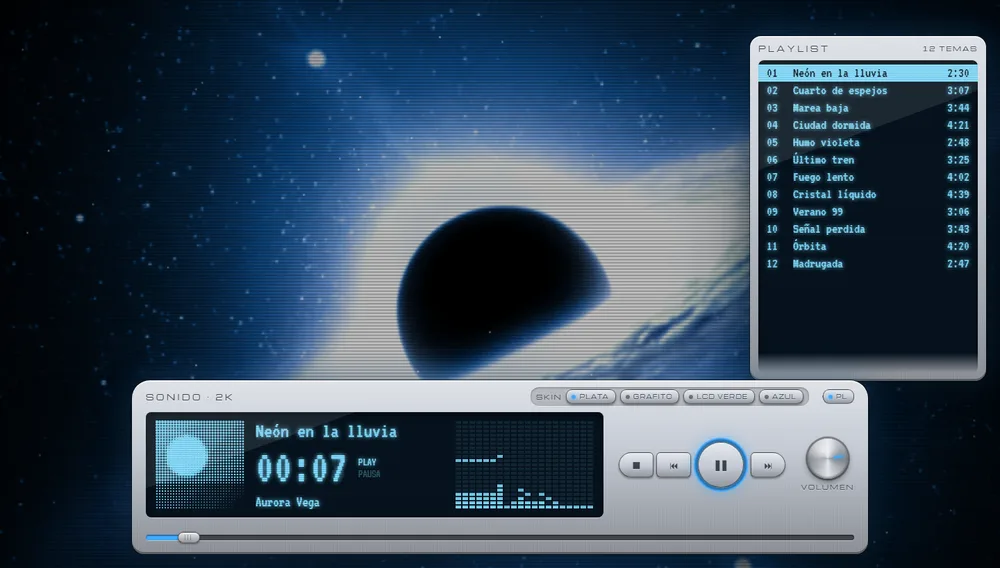
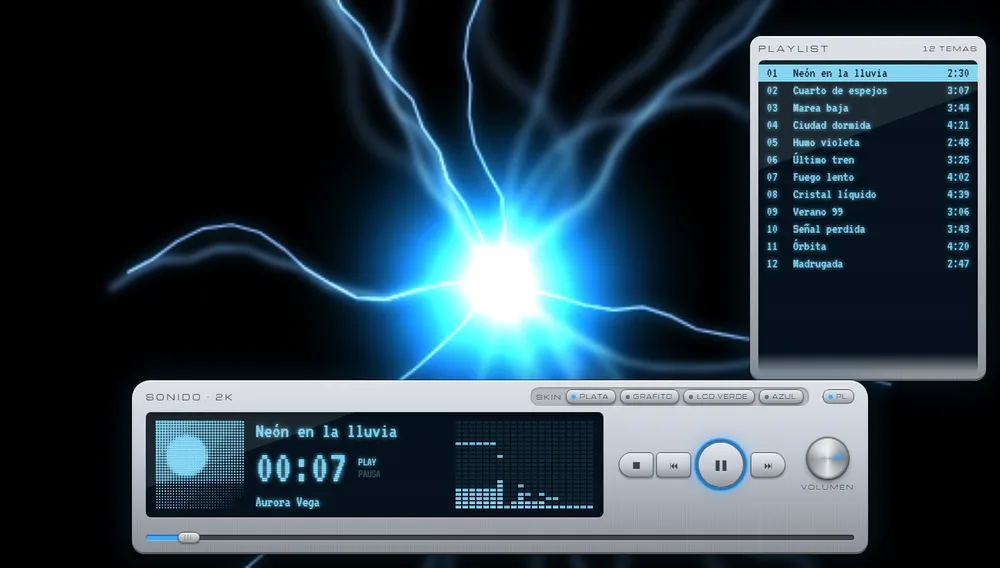
2000s: visualizaciones en vivo estilo Windows Media Player (bateria, rayos, onda) en lugar del agujero negro

diff --git a/web/visu2000.js b/web/visu2000.js
@@ -1,0 +1,85 @@
+// Visualización estilo reproductores de los 2000 (Windows Media Player / Winamp): fondo de la plantilla 2000s y opción
+// "Visualización 2000" de las plantillas propias. Todo se dibuja en vivo con la música a baja resolución y se estira
+// (se ve suave y brillante, como entonces). La "retroalimentación" (cada cuadro redibuja el anterior un poco más grande,
+// girado y desvanecido) es lo que hace los túneles y las estelas. Rota entre 3 modos: al cambiar de tema y cada 40 s.
+// crearVisu2000(canvas) → { dibujar(t, espectro, onda, bajo, medio, agudo, tono), siguiente() }
+"use strict";
+function crearVisu2000(canvas) {
+  const W = 480, H = 270, CX = W / 2, CY = H / 2;
+  canvas.width = W; canvas.height = H;
+  const g = canvas.getContext("2d"), copia = document.createElement("canvas"); copia.width = W; copia.height = H;
+  const c2 = copia.getContext("2d");
+  g.fillStyle = "#000"; g.fillRect(0, 0, W, H);
+  const MODOS = ["bateria", "rayos", "alquimia"];
+  let modo = 0, desde = 0, prom = 0, golpe = 0, giro = 0;
+
+  // redibuja el cuadro anterior transformado: zoom > 1 = túnel hacia afuera; filtro = humo / cambio de color
+  function eco(zoom, rot, alfa, filtro) {
+    c2.clearRect(0, 0, W, H); c2.drawImage(canvas, 0, 0);
+    g.fillStyle = "#000"; g.fillRect(0, 0, W, H);
+    g.save(); g.filter = filtro || "none"; g.globalAlpha = alfa;
+    g.translate(CX, CY); g.rotate(rot); g.scale(zoom, zoom); g.drawImage(copia, -CX, -CY);
+    g.restore(); g.filter = "none"; g.globalAlpha = 1;
+  }
+  const col = (h, l, a) => `hsla(${h},100%,${l}%,${a})`;
+  const banda = (d, i, n) => { const a = Math.floor(2 * Math.pow(90, i / n)), b = Math.max(a + 1, Math.floor(2 * Math.pow(90, (i + 1) / n))); let s = 0; for (let k = a; k < b; k++) s += d[k] || 0; return Math.min(1, s / (b - a) / 200); };
+
+  function bateria(t, d, bajo, tono) {
+    giro += .004 + bajo * .02;
+    eco(1.035 + bajo * .05, .015 + bajo * .03, .968);
+    g.globalCompositeOperation = "lighter";
+    const N = 64;
+    for (let i = 0; i < N; i++) {
+      const v = banda(d, i % (N / 2), N / 2), a = i / N * Math.PI * 2 + giro, r0 = 6 + bajo * 10, r1 = r0 + 22 + v * 110;
+      g.strokeStyle = col(tono + Math.sin(i * .35 + t) * 35, 50 + v * 25, .35 + v * .6); g.lineWidth = 1.5 + v * 3;
+      g.beginPath(); g.moveTo(CX + Math.cos(a) * r0, CY + Math.sin(a) * r0); g.lineTo(CX + Math.cos(a) * r1, CY + Math.sin(a) * r1); g.stroke();
+    }
+    g.globalCompositeOperation = "source-over";
+    g.fillStyle = "#000"; g.beginPath(); g.arc(CX, CY, 5 + bajo * 8, 0, 7); g.fill();   // el "ojo" negro del túnel
+  }
+
+  function rayos(t, d, bajo, agudo, tono) {
+    eco(1.012, .004, .9, "blur(1.4px)");
+    g.globalCompositeOperation = "lighter";
+    const r = 40 + bajo * 70, nube = g.createRadialGradient(CX, CY, 0, CX, CY, r);
+    nube.addColorStop(0, col(tono, 85, .5 + bajo * .4)); nube.addColorStop(.4, col(tono, 55, .25)); nube.addColorStop(1, col(tono, 30, 0));
+    g.fillStyle = nube; g.fillRect(0, 0, W, H);
+    for (let k = 0; k < 6; k++) {   // humo: manchas que se arremolinan alrededor del centro
+      const a = t * .7 + k * 1.05, rr = 25 + 18 * Math.sin(t * 1.3 + k), x = CX + Math.cos(a) * rr, y = CY + Math.sin(a) * rr * .8, s = 18 + bajo * 30;
+      const m = g.createRadialGradient(x, y, 0, x, y, s); m.addColorStop(0, col(tono + 15, 60, .12 + agudo * .15)); m.addColorStop(1, col(tono, 40, 0));
+      g.fillStyle = m; g.fillRect(x - s, y - s, s * 2, s * 2);
+    }
+    const n = 1 + Math.round(golpe * 4 + agudo * 2);
+    g.strokeStyle = col(tono + 10, 80, .9); g.shadowColor = col(tono, 60, 1); g.shadowBlur = 6; g.lineWidth = 1.2;
+    for (let k = 0; k < n; k++) {   // relámpagos: líneas quebradas del centro hacia afuera
+      let a = Math.random() * Math.PI * 2, x = CX, y = CY; g.beginPath(); g.moveTo(x, y);
+      for (let s = 0; s < 14; s++) { a += (Math.random() - .5) * .9; x += Math.cos(a) * 14; y += Math.sin(a) * 14; g.lineTo(x, y); }
+      g.stroke();
+    }
+    g.shadowBlur = 0; g.globalCompositeOperation = "source-over";
+  }
+
+  function alquimia(t, onda, bajo, tono) {
+    eco(1.02 + bajo * .02, -.02, .965, "blur(.6px) hue-rotate(4deg)");
+    g.globalCompositeOperation = "lighter";
+    for (let rep = 0; rep < 2; rep++) {   // la onda real, dos veces en cruz, que la retroalimentación convierte en remolino
+      g.save(); g.translate(CX, CY); g.rotate(t * .5 + rep * Math.PI / 2);
+      g.strokeStyle = col(tono + rep * 50, 65, .8); g.lineWidth = 1.6; g.beginPath();
+      for (let i = 0; i < onda.length; i += 4) { const x = (i / onda.length - .5) * W * .7, y = (onda[i] - 128) / 128 * H * .35 * (1 + bajo); i ? g.lineTo(x, y) : g.moveTo(x, y); }
+      g.stroke(); g.restore();
+    }
+    g.globalCompositeOperation = "source-over";
+  }
+
+  return {
+    siguiente() { modo = (modo + 1) % MODOS.length; desde = 0; },
+    dibujar(t, d, onda, bajo, medio, agudo, tono) {
+      prom = prom * .94 + bajo * .06; if (bajo > prom * 1.22 + .07) golpe = 1; golpe *= .86;
+      if (!desde) desde = t; else if (t - desde > 40) { modo = (modo + 1) % MODOS.length; desde = t; }
+      const m = MODOS[modo];
+      if (m === "bateria") bateria(t, d, bajo, tono);
+      else if (m === "rayos") rayos(t, d, bajo, agudo, tono);
+      else alquimia(t, onda, bajo, tono);
+    },
+  };
+}

diff --git a/web/dosmil.html b/web/dosmil.html
@@ -156,17 +156,22 @@
 
 <script src="propiedades.js"></script>
 <script src="nucleo.js"></script>
-<script src="agujero.js"></script>
+<script src="visu2000.js"></script>
 <script>
 "use strict";
-const agujero = crearAgujero(document.getElementById("tunel"));
+// Fondo: visualización estilo Windows Media Player / Winamp (clic en el fondo = otra visualización)
+const visu = crearVisu2000(document.getElementById("tunel"));
+document.getElementById("tunel").style.filter = `brightness(${Props.extra("dosmil", "tunel") / 100})`;
+document.getElementById("tunel").onclick = () => visu.siguiente();
+let tonoSkin = 210;
+R.alCambiar(() => visu.siguiente());
 const $ = (id) => document.getElementById(id);
 const raiz = document.documentElement.style;
 const SKINS = {
-  "Plata":     { metal: "#c3c9d3", grabado: "#3b4250", lcd: "#06131f", tinta: "#7fdcff", acento: "#3fa9ff", tinte: "#4aa8ff" },
-  "Grafito":   { metal: "#3b3e46", grabado: "#aeb2bb", lcd: "#140a00", tinta: "#ffb000", acento: "#ff6a00", tinte: "" },
-  "LCD verde": { metal: "#b4bba6", grabado: "#3d4535", lcd: "#a3b585", tinta: "#16220e", acento: "#5bd13a", tinte: "#7ad13a" },
-  "Azul":      { metal: "#2b4fae", grabado: "#d2deff", lcd: "#000a18", tinta: "#e6f3ff", acento: "#00e5ff", tinte: "#00d5ff" },
+  "Plata":     { metal: "#c3c9d3", grabado: "#3b4250", lcd: "#06131f", tinta: "#7fdcff", acento: "#3fa9ff" },
+  "Grafito":   { metal: "#3b3e46", grabado: "#aeb2bb", lcd: "#140a00", tinta: "#ffb000", acento: "#ff6a00" },
+  "LCD verde": { metal: "#b4bba6", grabado: "#3d4535", lcd: "#a3b585", tinta: "#16220e", acento: "#5bd13a" },
+  "Azul":      { metal: "#2b4fae", grabado: "#d2deff", lcd: "#000a18", tinta: "#e6f3ff", acento: "#00e5ff" },
 };
 const rgb = (h) => [1, 3, 5].map(i => parseInt(h.slice(i, i + 2), 16));
 const luz = ([r, g, b]) => (0.299 * r + 0.587 * g + 0.114 * b) / 255;
@@ -175,7 +180,8 @@ let skin = SKINS.Plata;
 function usarSkin(nombre) {
   skin = SKINS[nombre] || SKINS.Plata;
   for (const k of ["metal", "grabado", "lcd", "tinta", "acento"]) raiz.setProperty("--" + k, skin[k]);
-  agujero.tinte(skin.tinte, Props.extra("dosmil", "tunel"));
+  const [r, g, b] = rgb(skin.acento).map(x => x / 255), mx = Math.max(r, g, b), dd = mx - Math.min(r, g, b);
+  tonoSkin = !dd ? 0 : mx === r ? 60 * (((g - b) / dd) % 6) : mx === g ? 60 * ((b - r) / dd + 2) : 60 * ((r - g) / dd + 4);
   // LCD de fondo oscuro: la tinta brilla. LCD claro (verde): tinta opaca, sin brillo.
   raiz.setProperty("--brilloLcd", luz(rgb(skin.tinta)) > luz(rgb(skin.lcd)) ? "0 0 6px var(--tinta)" : "none");
   document.querySelectorAll("#skins button").forEach(b => b.classList.toggle("elegida", b.dataset.s === nombre));
@@ -268,12 +274,12 @@ perilla.addEventListener("keydown", (e) => {
   if (d) { e.preventDefault(); ponerVol(+vol.value + d); }
 });
 
-// ---- Cada cuadro: agujero negro de fondo, espectro del LCD, reloj y estado ----
+// ---- Cada cuadro: visualización de fondo, espectro del LCD, reloj y estado ----
 const esp = $("espectro"), eg = esp.getContext("2d"), BARRAS = 20, SEG = 21, picos = new Array(BARRAS).fill(0);
 const dosCifras = (s) => { s = isFinite(s) && s > 0 ? s : 0; return `${String(Math.floor(s / 60)).padStart(2, "0")}:${String(Math.floor(s % 60)).padStart(2, "0")}`; };
 R.cadaCuadro((t) => {
   const d = R.espectro();
-  agujero.dibujar(t, R.energia(d, 1, 8));
+  visu.dibujar(t, d, R.ondaAudio(), R.energia(d, 1, 8), R.energia(d, 10, 60), R.energia(d, 60, 200), tonoSkin);
 
   const sonando = $("bPlay").textContent === "❚❚";
   document.body.classList.toggle("sonando", sonando);

diff --git a/web/esquema.js b/web/esquema.js
@@ -3,7 +3,7 @@
 // Debe seguir siendo JSON válido después de "const ESQUEMA = " (comillas dobles, sin comentarios dentro).
 // Cada opción: { "t": "enum"|"num"|"bool"|"color"|"imagen", "n": etiqueta, "v": {valor: etiqueta}, "min", "max", "def", "u": unidad, "vacio": true }
 const ESQUEMA = {
-  "fondos": { "haz": "Haz de luz", "tunel": "Túnel psicodélico", "burbujas": "Burbujas", "luces": "Luces suaves", "estrellas": "Estrellas de píxel", "caratula": "Carátula desenfocada", "degradado": "Degradado", "color": "Color liso", "imagen": "Imagen propia", "columnas": "Columnas de luz (PS2)", "agujero": "Agujero negro (retro)" },
+  "fondos": { "haz": "Haz de luz", "tunel": "Túnel psicodélico", "burbujas": "Burbujas", "luces": "Luces suaves", "estrellas": "Estrellas de píxel", "caratula": "Carátula desenfocada", "degradado": "Degradado", "color": "Color liso", "imagen": "Imagen propia", "columnas": "Columnas de luz (PS2)", "agujero": "Agujero negro (retro)", "visu2000": "Visualización 2000 (WMP)" },
   "fondo": {
     "color": { "t": "color", "n": "Color de base", "def": "#08080a" },
     "color2": { "t": "color", "n": "Segundo color (degradado)", "def": "#2a1030" },

diff --git a/web/plantillas-propias.js b/web/plantillas-propias.js
@@ -51,7 +51,7 @@ const Propias = (() => {
       fondo: { tipo: "burbujas", color: "#123a00", brillo: 100 }, estilo: { panel: "gel", acento: "#9be22a", fuente: "Fredoka" },
       piezas: () => armar([["cabeza", [24, 2, 42, 95]], ["lista", [70, 5, 27, 82]], ["volumen", [34, 95, 24, 3.5]]]) },
     dosmil: { nombre: "2000s", reglas: { requeridas: ["equipo"], nota: "El equipo de metal es el reproductor: se puede mover, agrandar y cambiar de skin. Trae pantalla LCD, botones, perilla y barra, así que no se agregan sueltos." },
-      fondo: { tipo: "agujero", color: "#000000", tinte: "#4aa8ff", brillo: 90 }, estilo: { panel: "metal", acento: "#3fa9ff", fuente: "Michroma" },
+      fondo: { tipo: "visu2000", color: "#000000", brillo: 100 }, estilo: { panel: "metal", acento: "#3fa9ff", fuente: "Michroma" },
       piezas: () => armar([["lista", [72, 3, 26, 58]], ["equipo", [5, 66, 67, 31]]]) },
     ambiente: { nombre: "Ambiente", reglas: { requeridas: ["titulo", "botones", "barra"], nota: COMUN },
       fondo: { tipo: "caratula", color: "#08080a", desenfoque: 70, brillo: 100 }, estilo: { panel: "liso", acento: "#9aa4b8", acentoAuto: true, fuente: "Geist" },

diff --git a/web/libre.html b/web/libre.html
@@ -90,6 +90,7 @@
 <script src="plantillas-propias.js"></script>
 <script src="tunel.js"></script>
 <script src="agujero.js"></script>
+<script src="visu2000.js"></script>
 <script src="haz.js"></script>
 <script src="nucleo.js"></script>
 <script src="modulos.js"></script>
@@ -193,6 +194,11 @@ function fondo() {
       g.fillStyle = "rgba(255,255,255,.7)";
       ps.forEach(q => { q[1] -= .0006 * q[2] * (1 + GOLPE * 6); if (q[1] < -.02) { q[1] = 1.02; q[0] = Math.random(); } const z = 2 + q[2] * 3; g.fillRect(q[0] * w, q[1] * h, z, z); });
     }); return;
+  }
+  if (tipo === "visu2000") {
+    const lienzo = document.createElement("canvas"); c.appendChild(lienzo); const v = crearVisu2000(lienzo);
+    lienzo.style.cursor = "pointer"; lienzo.onclick = () => v.siguiente(); R.alCambiar(() => v.siguiente());
+    R.cadaCuadro((t) => { const d = R.espectro(); v.dibujar(t, d, R.ondaAudio(), R.energia(d, 1, 8), R.energia(d, 10, 60), R.energia(d, 60, 200), tono(acento)); }); return;
   }
   if (tipo === "agujero") {
     const lienzo = document.createElement("canvas"); c.appendChild(lienzo); const a = crearAgujero(lienzo); a.tinte(fv("tinte"));

diff --git a/web/index.html b/web/index.html
@@ -151,7 +151,7 @@ const PLANTILLAS = [
     grupos: ["Y2K", "Gel"].map(c => ({ titulo: `Cuerpo ${c}`, items: [["Lima", "#9be22a"], ["Chicle", "#ff7ad9"], ["Cielo", "#6cc8ff"], ["Mandarina", "#ff9a2a"], ["Cromo", "#c9d3dc"]]
       .map(([n, col]) => v(`${c} · ${n}`, col, `headspace-${c.toLowerCase()}-${n.toLowerCase()}`, { cuerpo: c, color2: n })) })) },
   { id: "dosmil", nombre: "2000s", pagina: "dosmil.html", predeterminada: "Plata",
-    desc: "Reproductor de metal con pantalla LCD, perilla de volumen y playlist, sobre un agujero negro retro que gira y late con el bajo.",
+    desc: "Reproductor de metal con pantalla LCD, perilla de volumen y playlist, sobre visualizaciones de la época de Windows Media Player (túnel, rayos y onda) que se mueven con la música.",
     guardar: (x) => ({ "skin-2000s": x.nombre }),
     grupos: [{ titulo: "Skin", items: [v("Plata", "#c3c9d3", "dosmil-plata"), v("Grafito", "#4a4e58", "dosmil-grafito"), v("LCD verde", "#b4bba6", "dosmil-lcd-verde"), v("Azul", "#2b4fae", "dosmil-azul")] }] },
   { id: "ambiente", nombre: "Ambiente", pagina: "ambiente.html", predeterminada: "Carátula",

diff --git a/web/propiedades.js b/web/propiedades.js
@@ -13,7 +13,7 @@ const Props = (() => {
   const EXTRAS = {
     liquido: [{ id: "deformacion", nombre: "Fuerza de la deformación del vidrio", min: 0, max: 140, def: 70, unidad: "" }],
     headspace: [{ id: "burbujas", nombre: "Cantidad de burbujas", min: 0, max: 80, def: 34, unidad: "" }],
-    dosmil: [{ id: "tunel", nombre: "Brillo del agujero negro de fondo", min: 20, max: 130, def: 80, unidad: " %" }],
+    dosmil: [{ id: "tunel", nombre: "Brillo de la visualización de fondo", min: 20, max: 130, def: 100, unidad: " %" }],
     ambiente: [{ id: "desenfoque", nombre: "Desenfoque del fondo", min: 10, max: 140, def: 70, unidad: " px" }],
     pixel: [{ id: "pixel", nombre: "Tamaño de los píxeles", min: 3, max: 9, def: 5, unidad: " px" }],
   };
